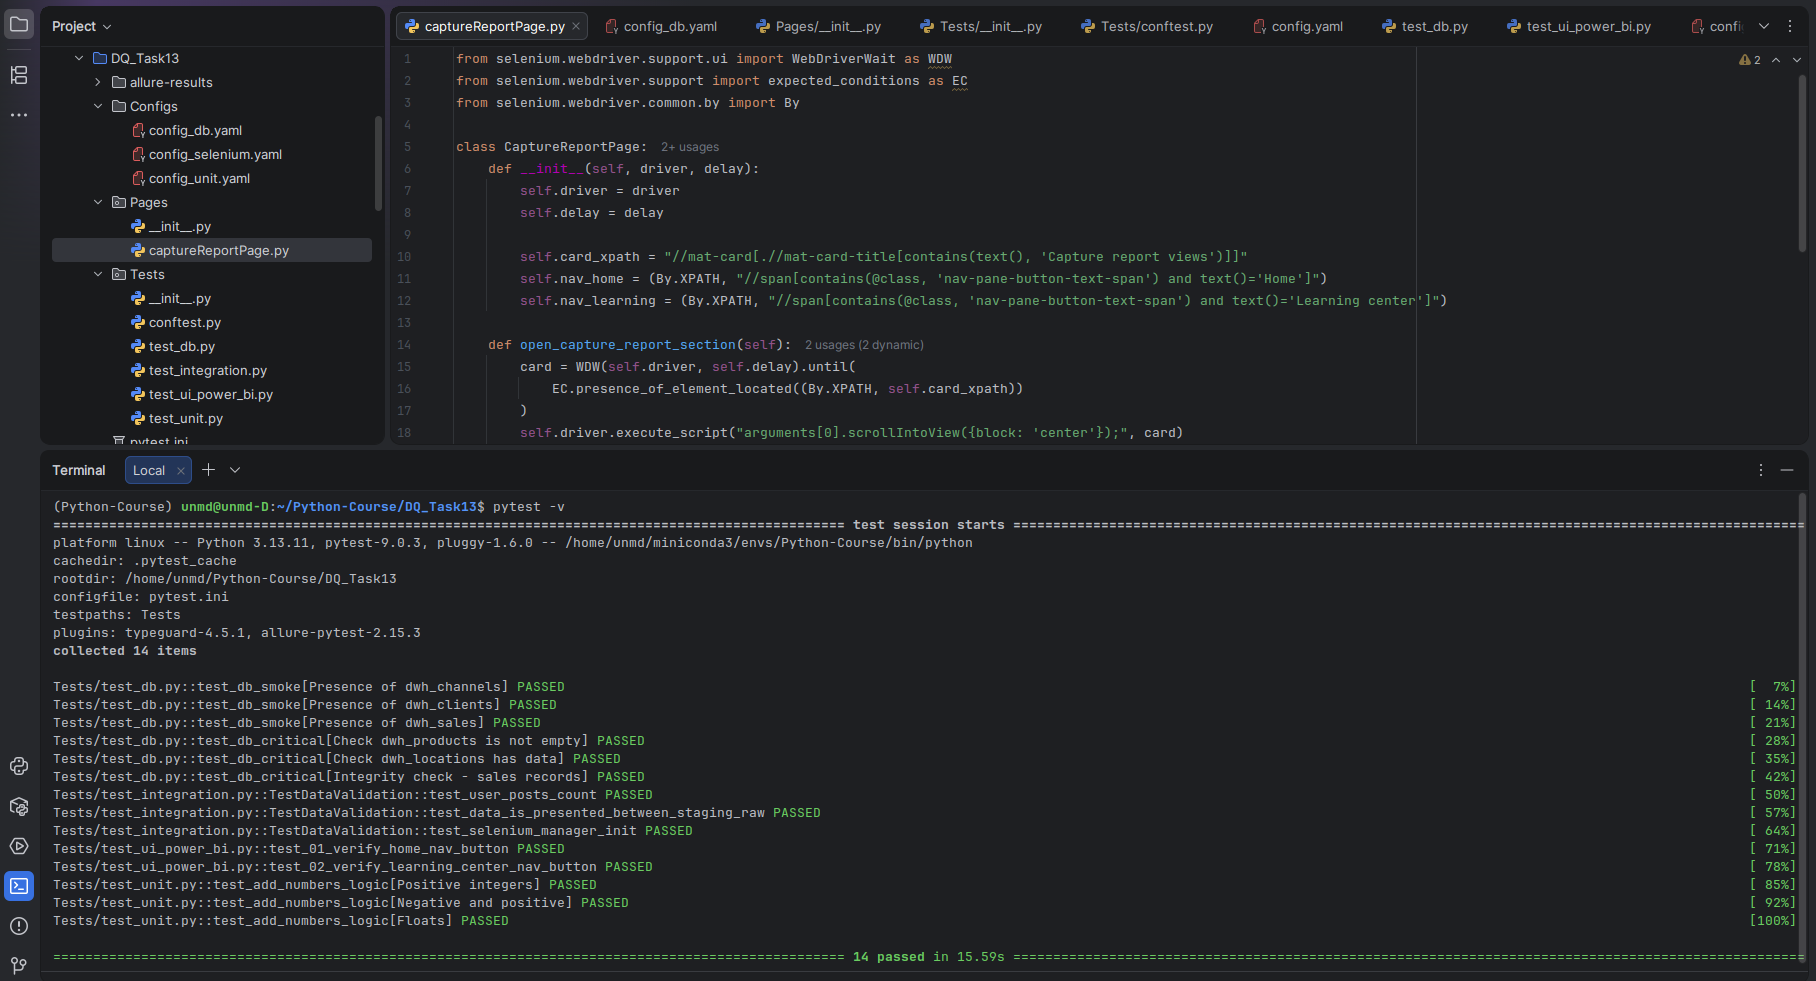
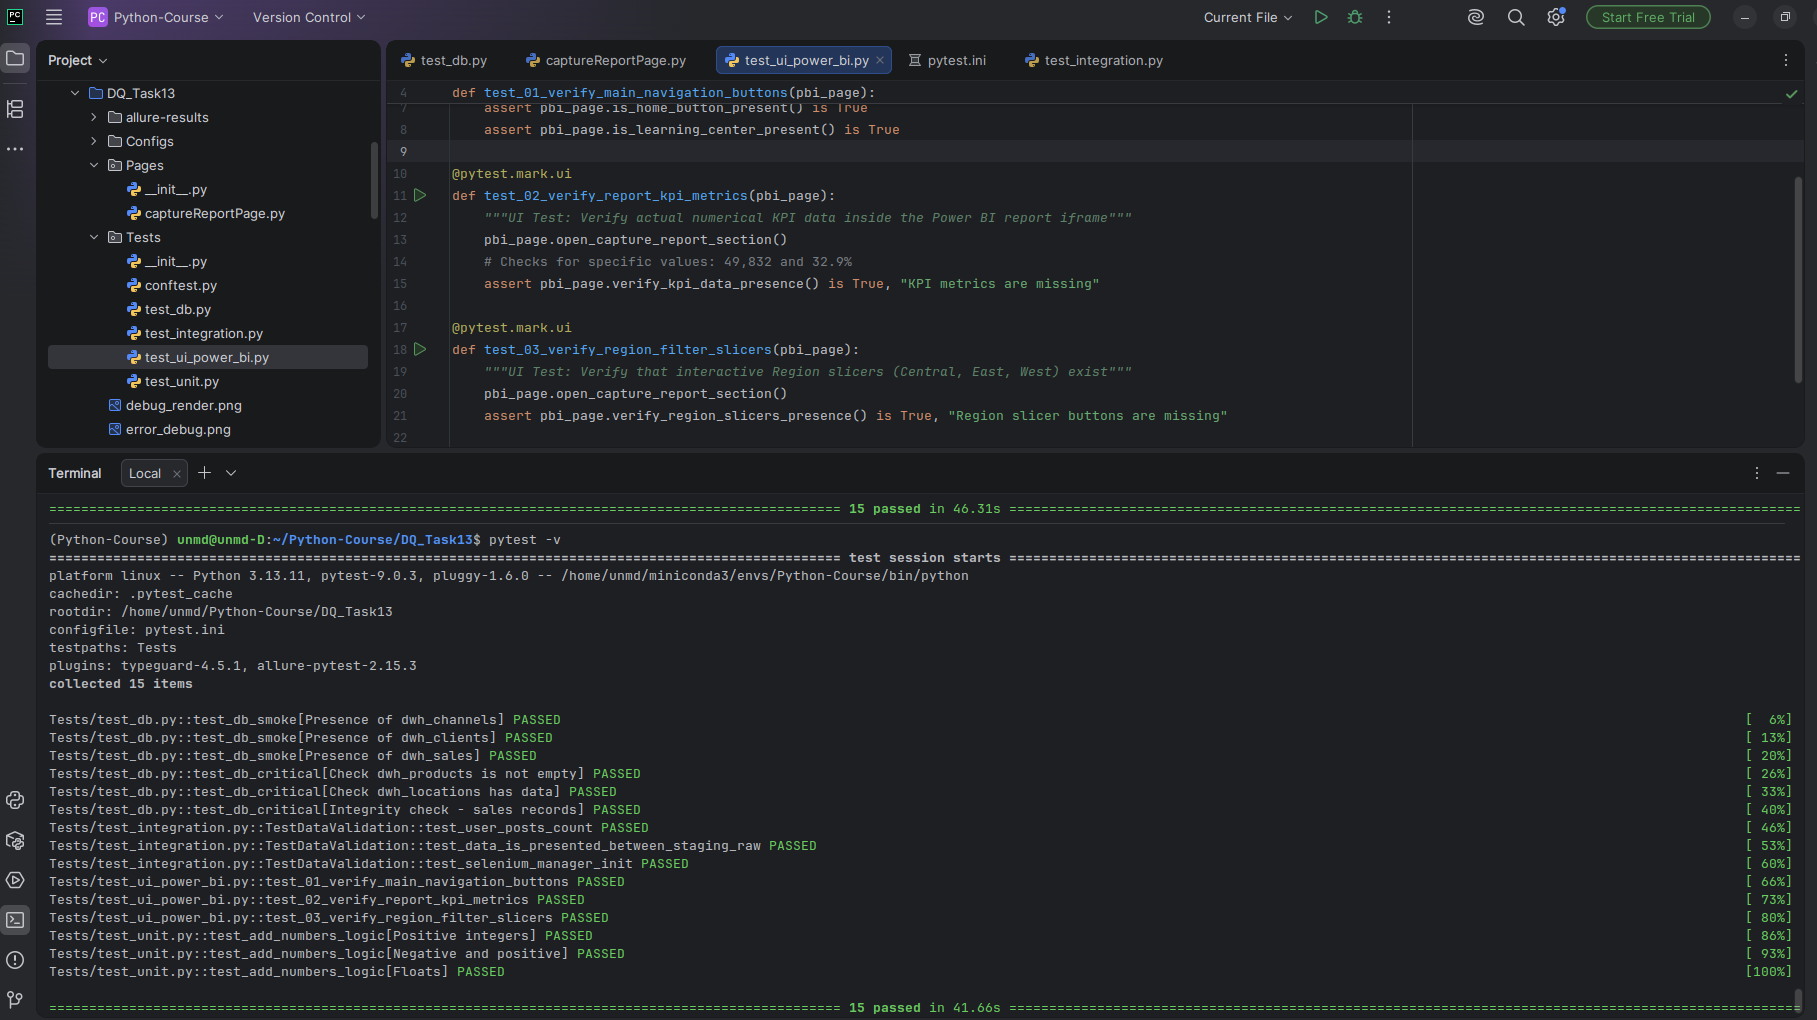
fixed

Changed region(s): [[0.0, 0.0, 1.0, 1.0], [0.9868, 0.0612, 1.0, 0.367]]

diff --git a/Task13/DQ_Task13/Pages/captureReportPage.py b/Task13/DQ_Task13/Pages/captureReportPage.py
@@ -7,25 +7,68 @@ class CaptureReportPage:
         self.driver = driver
         self.delay = delay
 
+        # Selectors on the main page layout
         self.card_xpath = "//mat-card[.//mat-card-title[contains(text(), 'Capture report views')]]"
         self.nav_home = (By.XPATH, "//span[contains(@class, 'nav-pane-button-text-span') and text()='Home']")
         self.nav_learning = (By.XPATH, "//span[contains(@class, 'nav-pane-button-text-span') and text()='Learning center']")
+
+        # Selectors for Power BI Report
+        self.kpi_vol = (By.XPATH, "//*[text()='49,832']")
+        self.kpi_share = (By.XPATH, "//*[text()='32.9%']")
+        self.region_central = (By.XPATH, "//*[text()='Central']")
+        self.region_east = (By.XPATH, "//*[text()='East']")
+        self.region_west = (By.XPATH, "//*[text()='West']")
 
     def open_capture_report_section(self):
         card = WDW(self.driver, self.delay).until(
             EC.presence_of_element_located((By.XPATH, self.card_xpath))
         )
         self.driver.execute_script("arguments[0].scrollIntoView({block: 'center'});", card)
-        self.driver.execute_script("arguments[0].click();", card)
+        card.click()
+
+    def _switch_to_report_context(self):
+        wait = WDW(self.driver, self.delay)
+        outer_frame = wait.until(EC.presence_of_element_located((By.TAG_NAME, "iframe")))
+        self.driver.switch_to.frame(outer_frame)
+        try:
+            inner_frame = wait.until(EC.presence_of_element_located((By.TAG_NAME, "iframe")))
+            self.driver.switch_to.frame(inner_frame)
+        except:
+            pass
 
     def is_home_button_present(self):
-        element = WDW(self.driver, self.delay).until(
-            EC.visibility_of_element_located(self.nav_home)
-        )
+        """Checks navigation button presence on the main page"""
+        element = WDW(self.driver, self.delay).until(EC.visibility_of_element_located(self.nav_home))
         return element.is_displayed()
 
     def is_learning_center_present(self):
-        element = WDW(self.driver, self.delay).until(
-            EC.visibility_of_element_located(self.nav_learning)
-        )
+        """Checks navigation button presence on the main page"""
+        element = WDW(self.driver, self.delay).until(EC.visibility_of_element_located(self.nav_learning))
         return element.is_displayed()
+
+    def verify_kpi_data_presence(self):
+        """Verifies actual KPI numerical data inside iframe"""
+        self._switch_to_report_context()
+        wait = WDW(self.driver, self.delay + 10)
+        try:
+            kv = wait.until(EC.presence_of_element_located(self.kpi_vol))
+            ks = wait.until(EC.presence_of_element_located(self.kpi_share))
+            return kv is not None and ks is not None
+        except:
+            return False
+        finally:
+            self.driver.switch_to.default_content()
+
+    def verify_region_slicers_presence(self):
+        """Checks if structural regional slicer buttons exist in the report"""
+        self._switch_to_report_context()
+        wait = WDW(self.driver, self.delay + 10)
+        try:
+            c = wait.until(EC.presence_of_element_located(self.region_central))
+            e = wait.until(EC.presence_of_element_located(self.region_east))
+            w = wait.until(EC.presence_of_element_located(self.region_west))
+            return all([c, e, w])
+        except:
+            return False
+        finally:
+            self.driver.switch_to.default_content()

diff --git a/Task13/DQ_Task13/Tests/test_ui_power_bi.py b/Task13/DQ_Task13/Tests/test_ui_power_bi.py
@@ -1,11 +1,21 @@
 import pytest
 
-def test_01_verify_home_nav_button(pbi_page):
-    """UI Test: Testing the Home button in the side navigation"""
+@pytest.mark.ui
+def test_01_verify_main_navigation_buttons(pbi_page):
+    """UI Test: Verify 'Home' and 'Learning center' buttons on the main page"""
     pbi_page.open_capture_report_section()
     assert pbi_page.is_home_button_present() is True
-
-def test_02_verify_learning_center_nav_button(pbi_page):
-    """UI Test: Testing the Learning Center button in the side navigation"""
-    pbi_page.open_capture_report_section()
     assert pbi_page.is_learning_center_present() is True
+
+@pytest.mark.ui
+def test_02_verify_report_kpi_metrics(pbi_page):
+    """UI Test: Verify actual numerical KPI data inside the Power BI report iframe"""
+    pbi_page.open_capture_report_section()
+    # Checks for specific values: 49,832 and 32.9%
+    assert pbi_page.verify_kpi_data_presence() is True, "KPI metrics are missing"
+
+@pytest.mark.ui
+def test_03_verify_region_filter_slicers(pbi_page):
+    """UI Test: Verify that interactive Region slicers (Central, East, West) exist"""
+    pbi_page.open_capture_report_section()
+    assert pbi_page.verify_region_slicers_presence() is True, "Region slicer buttons are missing"

diff --git a/Task13/DQ_Task13/Tests/conftest.py b/Task13/DQ_Task13/Tests/conftest.py
@@ -23,10 +23,11 @@ def track_suite_time():
 # --- fixture DB ---
 @pytest.fixture(scope="session")
 def db_connection():
+    db_pass = os.getenv('DB_PASSWORD')
     conn = psycopg2.connect(
         database="dwh_hw_db",
         user='postgres',
-        password='xh1931',
+        password=db_pass,
         host='localhost',
         port='5432'
     )
@@ -63,6 +64,19 @@ def pbi_page():
 
     page = CaptureReportPage(driver, conf['delay'])
     yield page
+    driver.quit()
+
+
+@pytest.fixture
+def driver():
+    options = webdriver.ChromeOptions()
+    options.add_experimental_option("excludeSwitches", ["enable-automation"])
+    options.add_experimental_option('useAutomationExtension', False)
+
+    driver = webdriver.Chrome(options=options)
+    driver.maximize_window()
+
+    yield driver
     driver.quit()
 
 # --- fixture Cloud/API ---

diff --git a/Task13/DQ_Task13/Tests/test_unit.py b/Task13/DQ_Task13/Tests/test_unit.py
@@ -12,6 +12,7 @@ def get_numbers_data():
         return yaml.safe_load(f)['cases']
 
 @allure.feature("Unit Tests")
+@pytest.mark.unit
 @pytest.mark.parametrize("data", get_numbers_data(), ids=lambda d: d['case_name'])
 def test_add_numbers_logic(data):
     result = add_numbers(*data['input'])

diff --git a/Task13/DQ_Task13/Tests/test_integration.py b/Task13/DQ_Task13/Tests/test_integration.py
@@ -2,6 +2,7 @@ import allure
 import pytest
 
 @allure.feature("Data Integrity Tests")
+@pytest.mark.integration
 class TestDataValidation:
 
     @allure.story("Scenario 1: API Data Verification")
